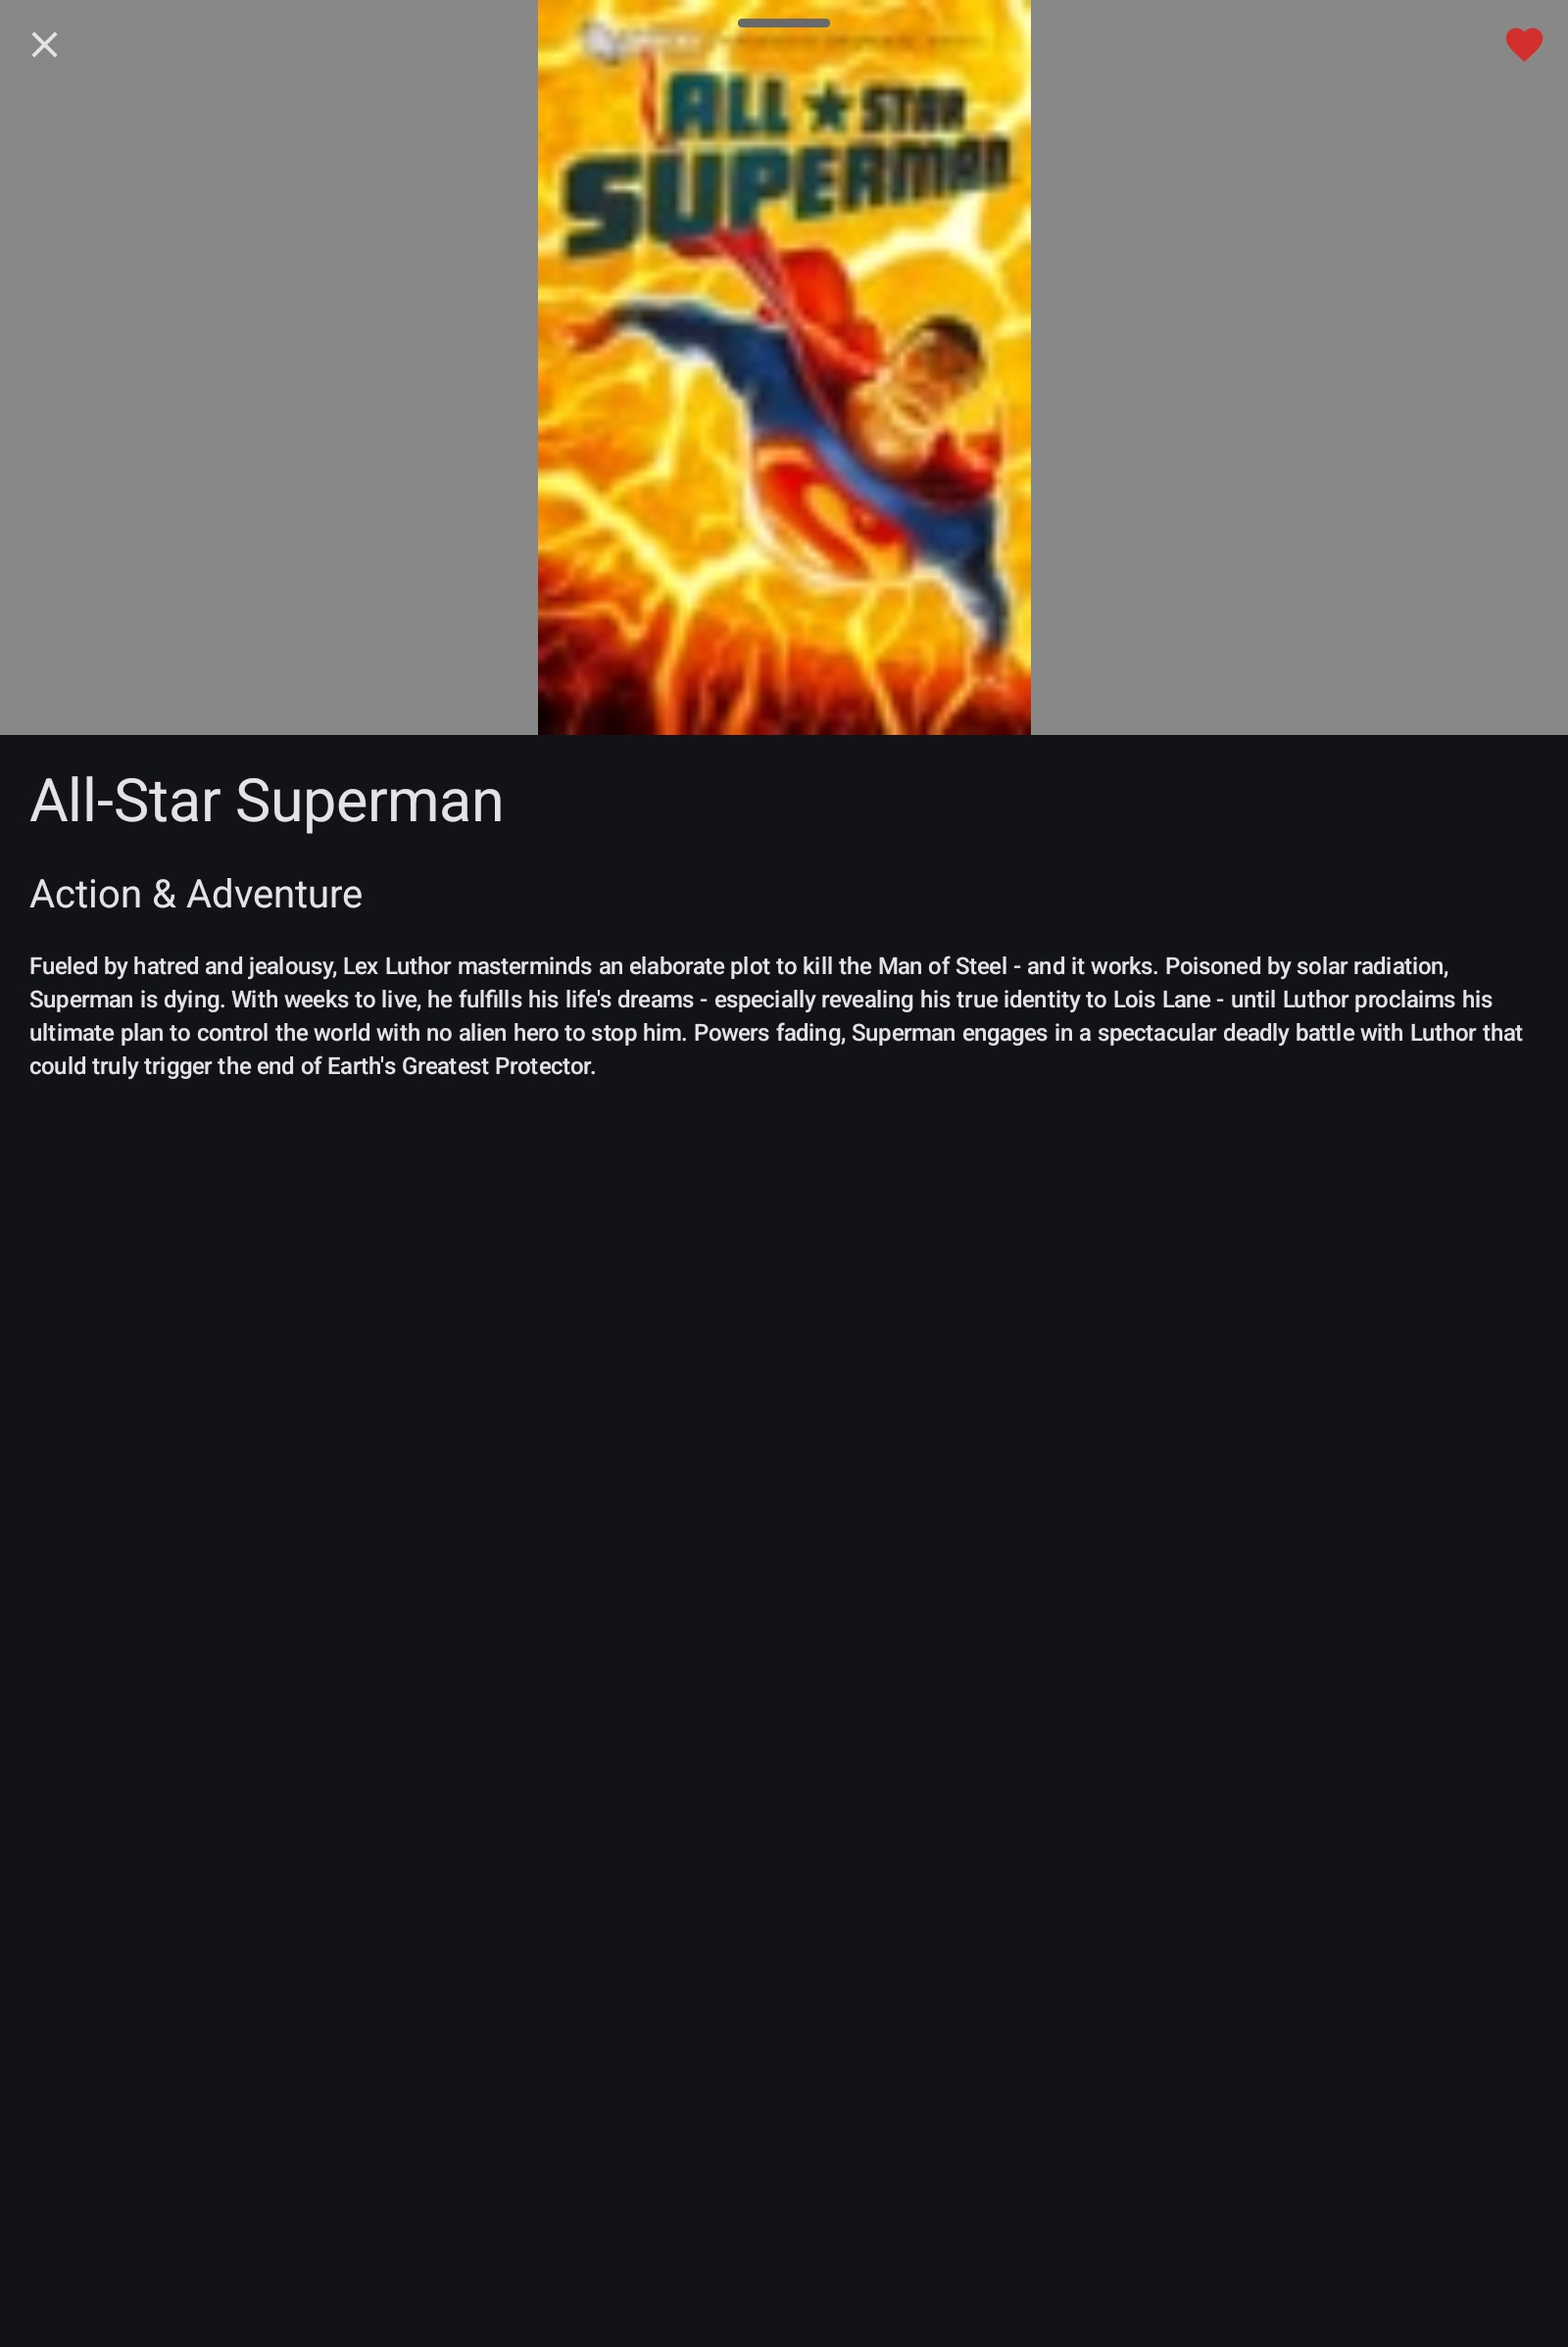
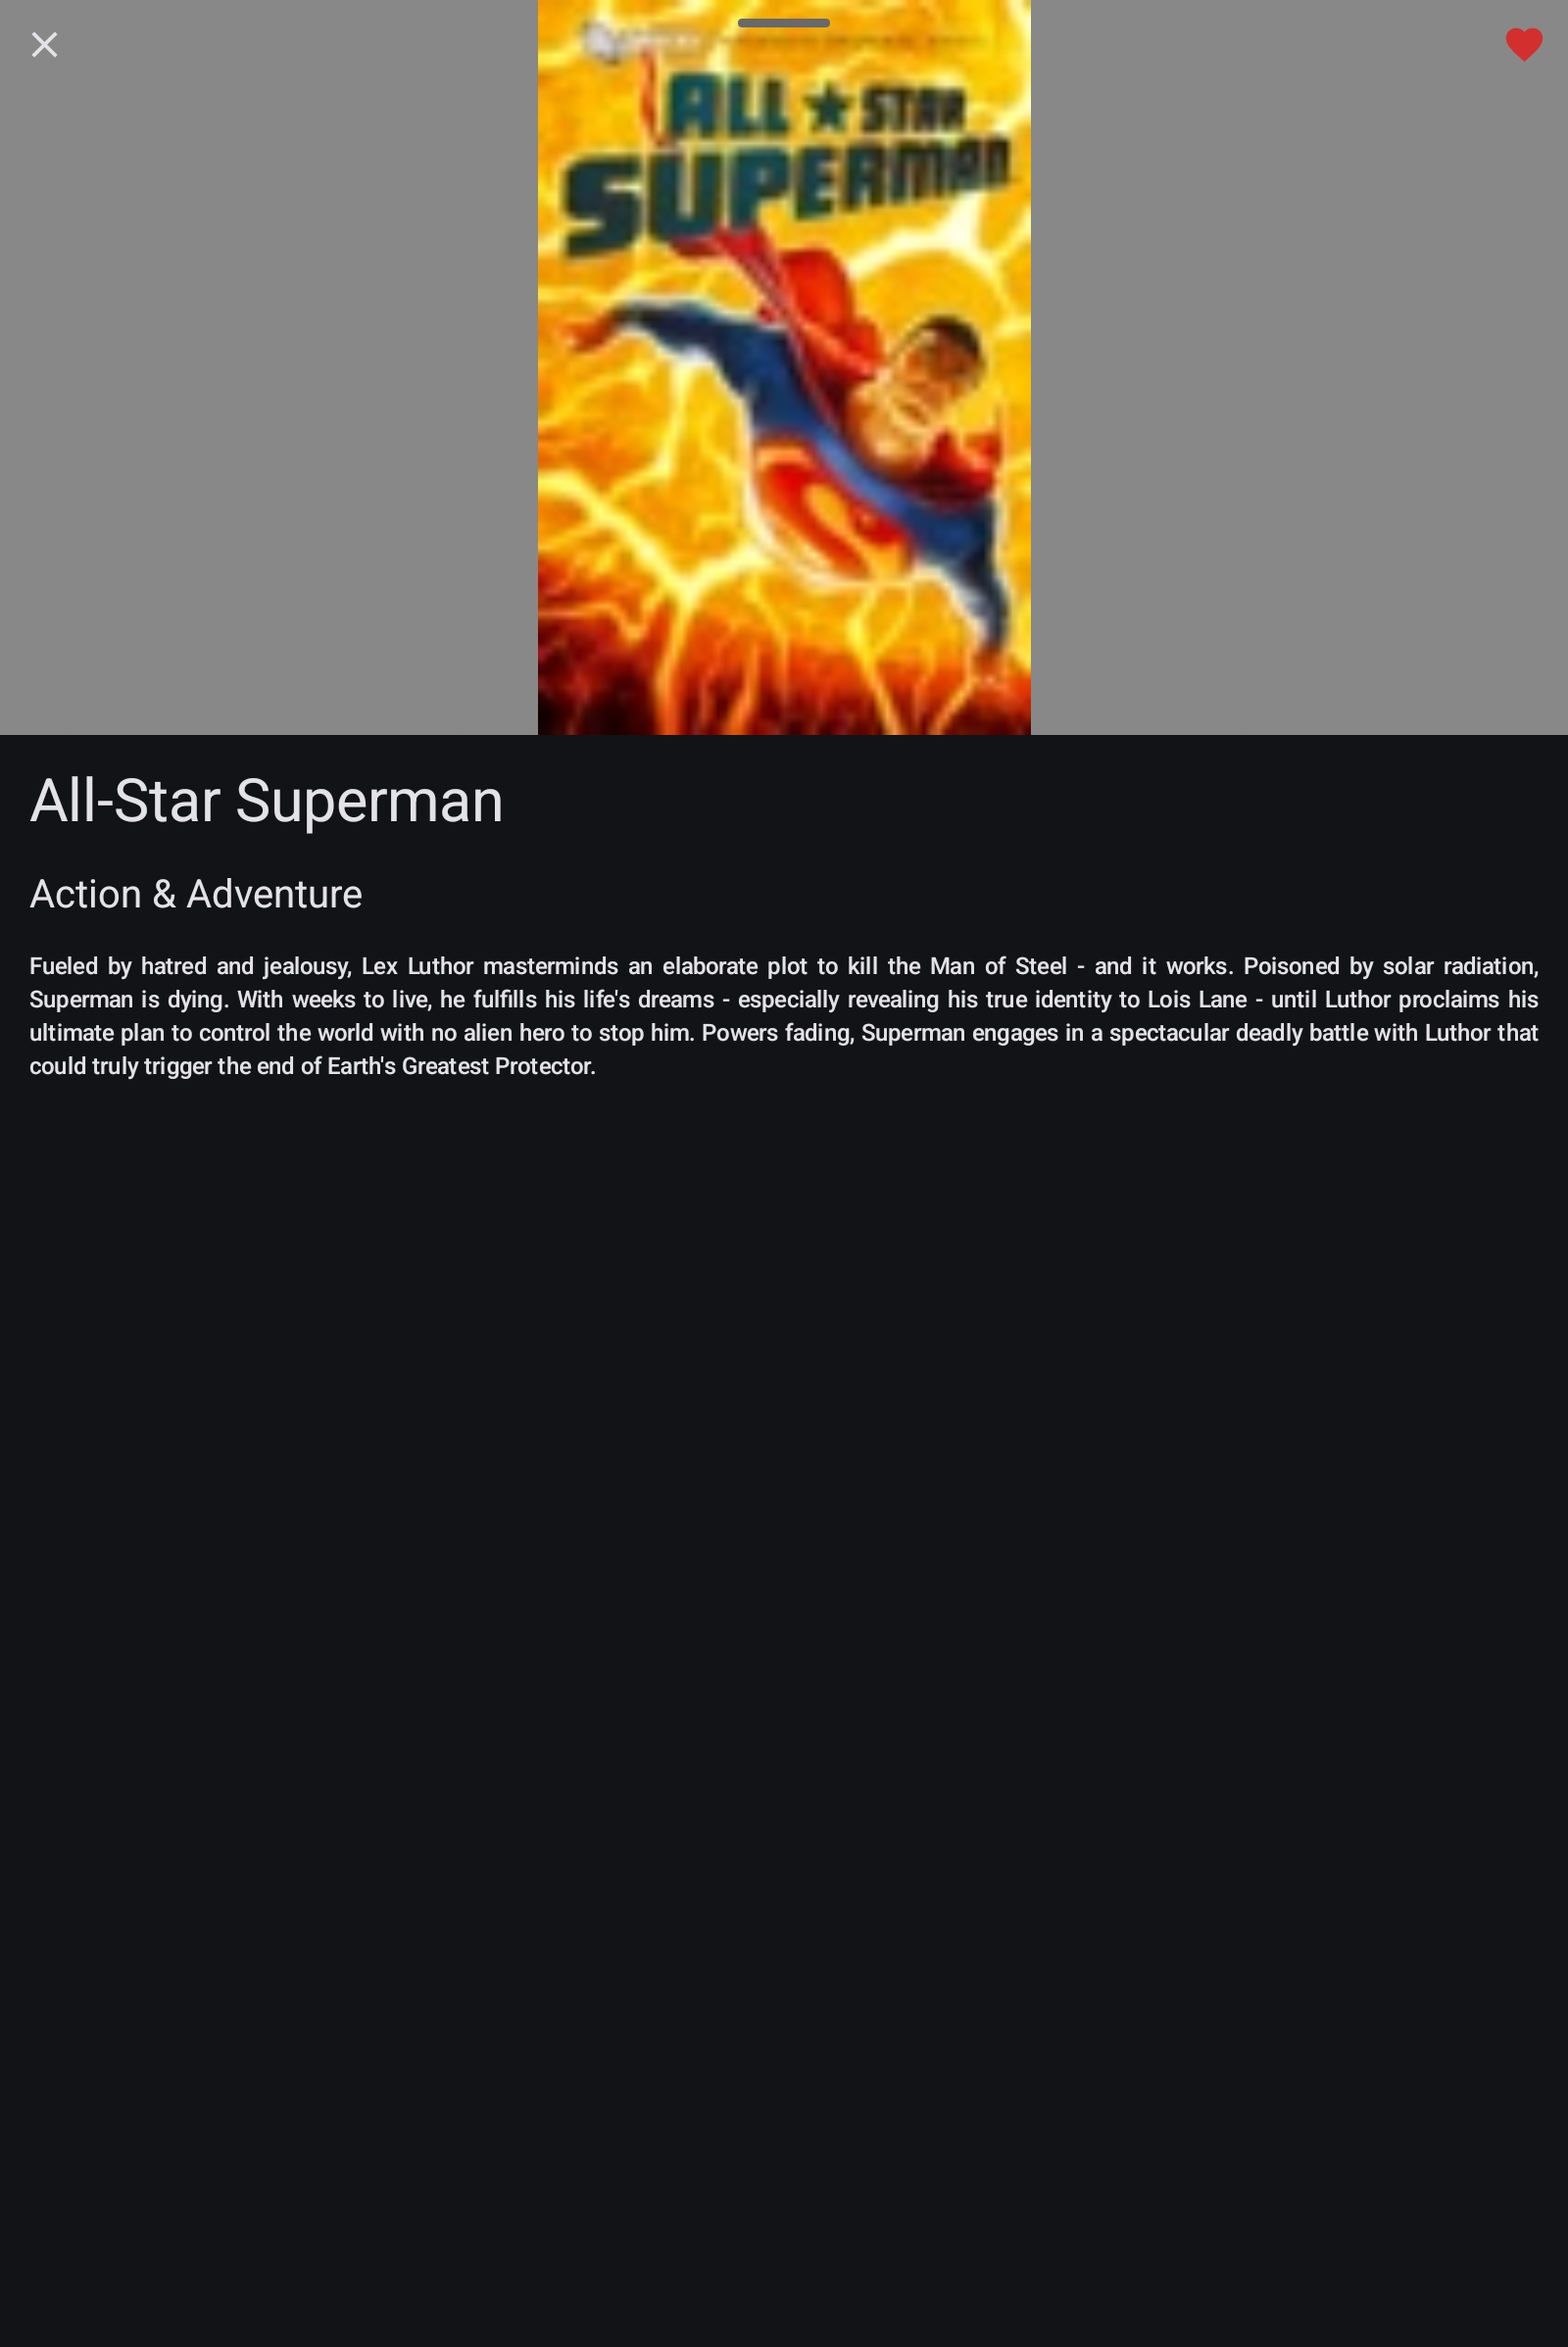
Change track description text alignment, update in README.md

Changed region(s): [[0.0625, 0.4017, 0.9688, 0.4635]]

diff --git a/app/src/main/java/com/appetiser/trackcatalog/ui/components/TrackContent.kt b/app/src/main/java/com/appetiser/trackcatalog/ui/components/TrackContent.kt
@@ -7,6 +7,7 @@ import androidx.compose.material3.MaterialTheme
 import androidx.compose.material3.Text
 import androidx.compose.runtime.Composable
 import androidx.compose.ui.Modifier
+import androidx.compose.ui.text.style.TextAlign
 import androidx.compose.ui.unit.dp
 import com.appetiser.trackcatalog.data.db.Track
 
@@ -20,6 +21,7 @@ fun TrackContent(track: Track) {
             Text(
                 text = track.name,
                 style = MaterialTheme.typography.displaySmall,
+                textAlign = TextAlign.Start,
                 modifier = Modifier.padding(start = 16.dp, end = 16.dp, top = 16.dp, bottom = 8.dp)
             )
         }
@@ -27,6 +29,7 @@ fun TrackContent(track: Track) {
             Text(
                 text = track.genre,
                 style = MaterialTheme.typography.headlineSmall,
+                textAlign = TextAlign.Start,
                 modifier = Modifier.padding(start = 16.dp, end = 16.dp, top = 8.dp, bottom = 8.dp)
             )
         }
@@ -34,6 +37,7 @@ fun TrackContent(track: Track) {
             Text(
                 text = track.description,
                 style = MaterialTheme.typography.labelLarge,
+                textAlign = TextAlign.Justify,
                 modifier = Modifier.padding(start = 16.dp, end = 16.dp, top = 8.dp, bottom = 16.dp)
             )
         }

diff --git a/app/src/main/java/com/appetiser/trackcatalog/ui/screens/TrackCatalogScreen.kt b/app/src/main/java/com/appetiser/trackcatalog/ui/screens/TrackCatalogScreen.kt
@@ -62,7 +62,6 @@ fun TrackCatalogScreen(
             }
     ) {
 
-
         Column {
             SearchBar(
                 query = searchQuery,

diff --git a/README.md b/README.md
@@ -9,12 +9,22 @@ Sample project in Kotlin Android, using these tech. stacks:
 - DaggerHilt
 - BitRise: https://app.bitrise.io/app/b28fffa9-8818-41ca-99a8-4c39cb5aea7d
 
-## Screenshots
-<p>
-  <img src="https://github.com/jlgsavellano/TrackCatalog/blob/main/screenshots/SAMPLE_0.jpg" alt="sample0" width="400">
-  <img src="https://github.com/jlgsavellano/TrackCatalog/blob/main/screenshots/SAMPLE_1.jpg" alt="sample1" width="400">
-</p>
-<p>
-  <img src="https://github.com/jlgsavellano/TrackCatalog/blob/main/screenshots/SAMPLE_2.jpg" alt="sample2" width="400">
-  <img src="https://github.com/jlgsavellano/TrackCatalog/blob/main/screenshots/SAMPLE_3.jpg" alt="sample3" width="400">
-</p>
+## Tablet Screenshots
+<div>
+  <img src="https://github.com/jlgsavellano/TrackCatalog/blob/main/screenshots/SAMPLE_0.jpg" width="300" />
+  <img src="https://github.com/jlgsavellano/TrackCatalog/blob/main/screenshots/SAMPLE_1.jpg" width="300" />
+<div>
+<div>
+  <img src="https://github.com/jlgsavellano/TrackCatalog/blob/main/screenshots/SAMPLE_2.jpg" width="300" />
+  <img src="https://github.com/jlgsavellano/TrackCatalog/blob/main/screenshots/SAMPLE_3.jpg" width="300" />
+</div>
+
+## Phone Screenshots
+<div>
+  <img src="https://github.com/jlgsavellano/TrackCatalog/blob/main/screenshots/SAMPLE_4.jpg" width="200" />
+  <img src="https://github.com/jlgsavellano/TrackCatalog/blob/main/screenshots/SAMPLE_5.jpg" width="200" />
+</div>
+<div>
+  <img src="https://github.com/jlgsavellano/TrackCatalog/blob/main/screenshots/SAMPLE_6.jpg" width="200" />
+  <img src="https://github.com/jlgsavellano/TrackCatalog/blob/main/screenshots/SAMPLE_7.jpg" width="200" />
+</div>
